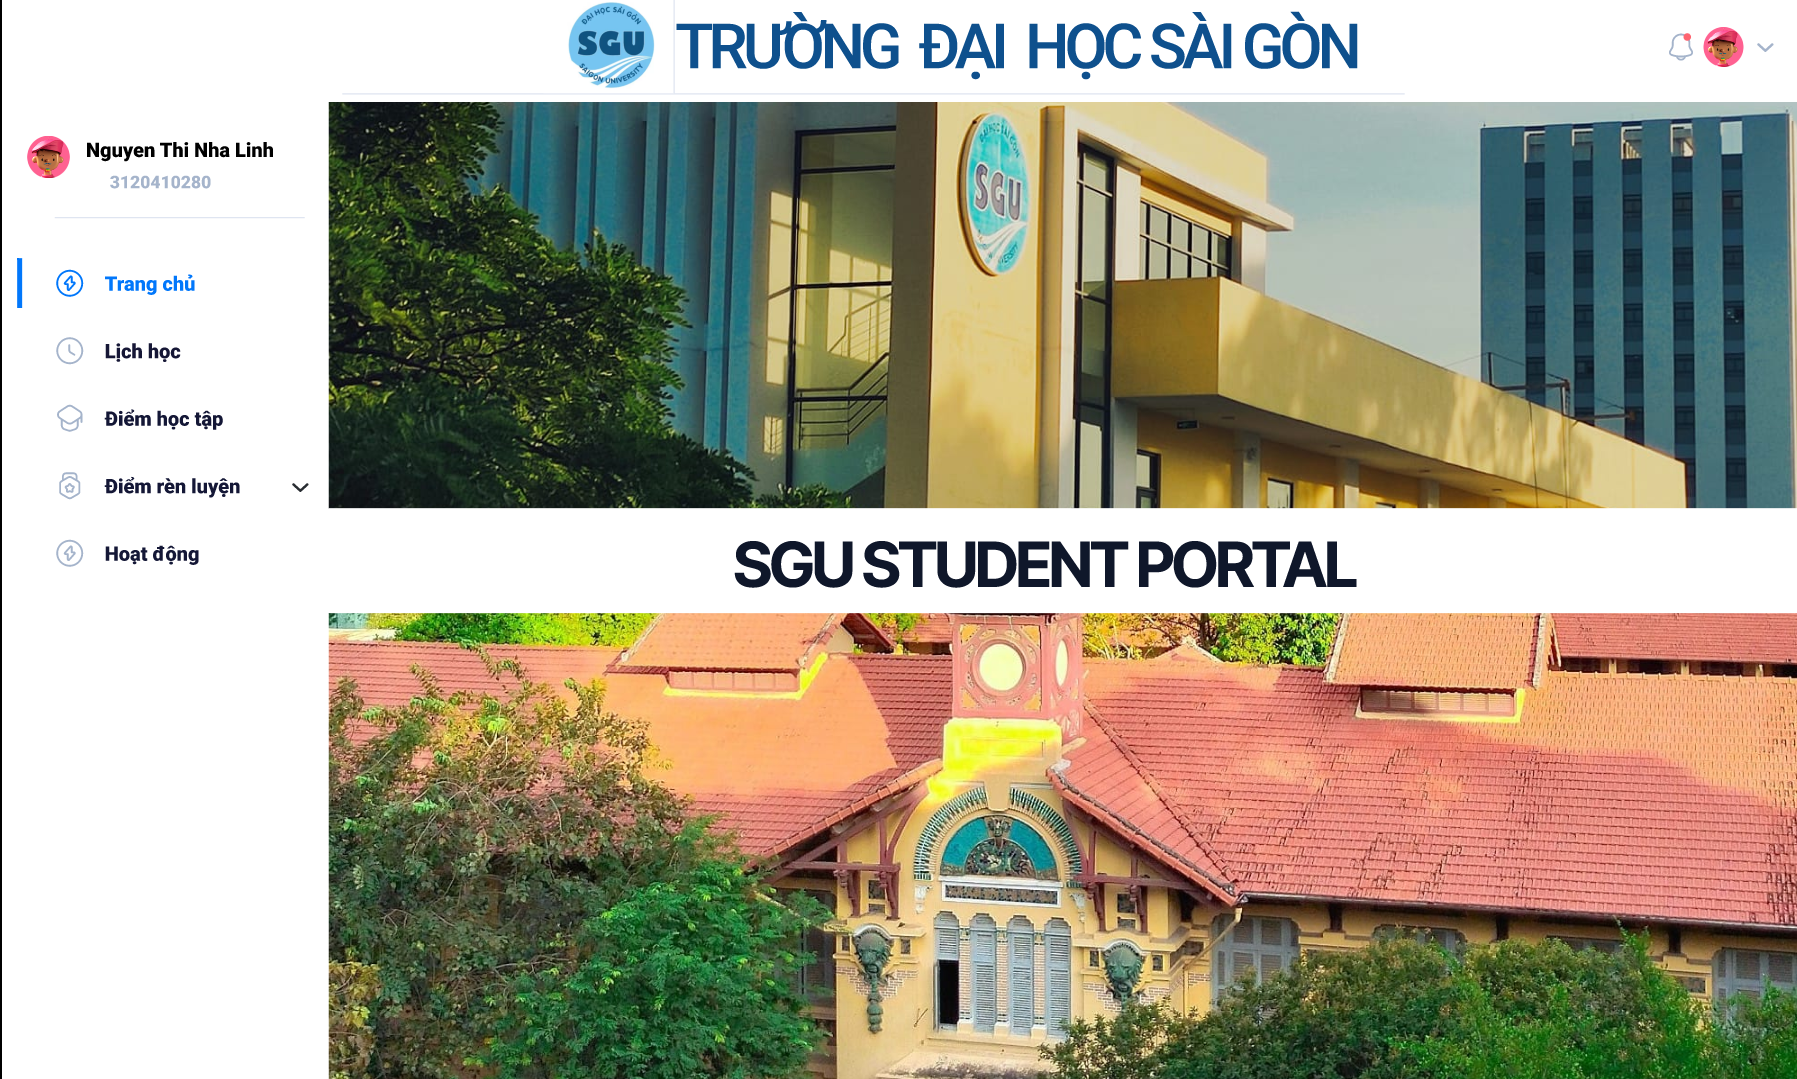
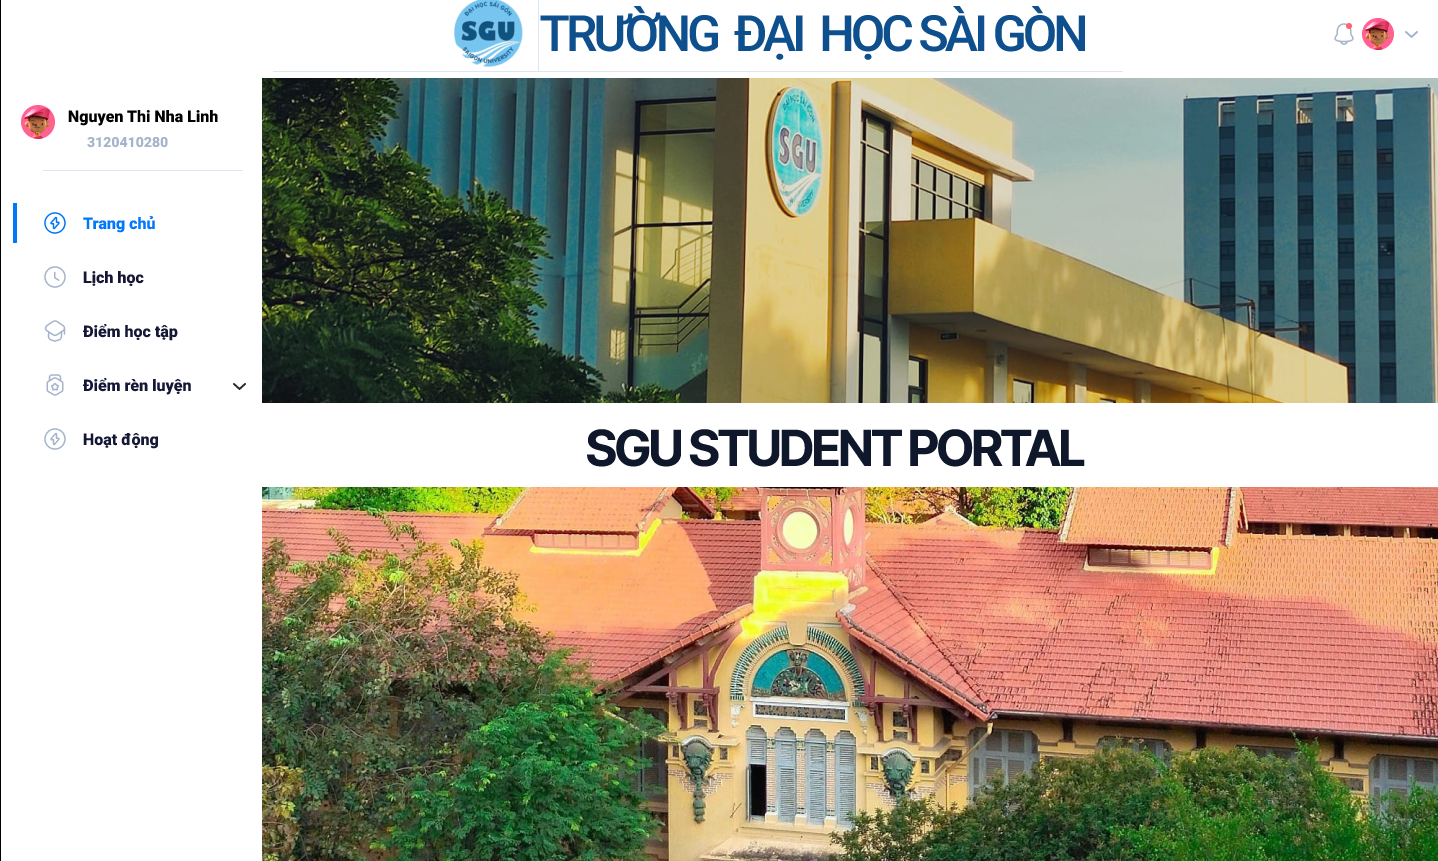
Update Image

diff --git a/app.py b/app.py
@@ -87,6 +87,10 @@ img_lh = Image.open("images/middle.jpg")
 img_ifg = Image.open("images/contact.jpg")
 #Assets for competitions
 img_CPNTD = Image.open("images/CPNTD.jpg")
+img_CPNTD2 = Image.open("images/CPNTD2.jpg")
+img_CPNTD3 = Image.open("images/CPNTD3.jpg")
+img_CPNTD4 = Image.open("images/CPNTD4.jpg")
+img_CPNTD5 = Image.open("images/CPNTD5.jpg")
 img_TLSV = Image.open("images/TLSV.png")
 # Assets for education
 
@@ -102,8 +106,25 @@ img_identify = Image.open("images/identify.jpeg")
 img_data = Image.open("images/data.jpeg")
 img_logistics = Image.open("images/logistics.png") 
 img_SGUsp = Image.open("images/SGUsp.png")
+img_SGUsp2 = Image.open("images/SGUsp2.png")
+img_SGUsp3 = Image.open("images/SGUsp3.png")
+img_SGUsp4 = Image.open("images/SGUsp4.png")
+img_SGUsp5 = Image.open("images/SGUsp5.png")
 img_POSodoo = Image.open("images/POSodoo.jpg")
 img_figma = Image.open("images/figma.png")
+
+img_swm = Image.open("images/swm.png")
+img_swm1 = Image.open("images/swm1.png")
+img_swm2 = Image.open("images/swm2.jpg")
+
+img_MyBao = Image.open("images/Project_MyBao.png")
+img_MyBao2 = Image.open("images/Project_MyBao2.png")
+img_MyBao3 = Image.open("images/Project_MyBao3.png")
+img_MyBao4 = Image.open("images/Project_MyBao4.png")
+img_MyBao5 = Image.open("images/Project_MyBao5.png")
+img_MyBao6 = Image.open("images/Project_MyBao6.png")
+
+
 
 
 # Assets for volunteering
@@ -505,9 +526,9 @@ elif choose == "Technical Skills":
         st.markdown("""
         **Tools & Platforms**
         - Jira
-        - Slack
-        - Version Control
-        - Project Tracking
+        - Confluence
+        - Postman
+        - Insomnia
         """)
 
 
@@ -572,100 +593,219 @@ elif choose == "Education":
 
 elif choose == "Projects":
     # Create section for Projects
-    #st.write("---")
     st.header("Projects")
+    
+    # Initialize session state for project visibility if not exists
+    if 'project_visibility' not in st.session_state:
+        st.session_state.project_visibility = {
+            'wms': True,
+            'identify': True,
+            'data': True,
+            'logistics': True,
+            'sgu': True,
+            'pos': True,
+            'mybao': True
+        }
+        
     with st.container():
-        text_column, image_column = st.columns((3,1))
+        text_column, image_column = st.columns((2,2))
         with text_column:
-            st.subheader("Identify Positive and Negative Comments on Youtube")
-            st.write("Self-initiated project using Machine Learning")
-            st.markdown("""
-            - Developed and integrating a machine learning-based data collection system within 2 months, gathering
-            and processing 100,000 data entries for a Steam-based learning model.
-            - Built webscraper using BeautifulSoup4 to scrape content from [Steam](https://store.steampowered.com/)
-            - Aided content creators in identifying channel issues, resulting in a 70% reduction in time spent pinpointing
-            problems.
-            """)
+            col1, col2 = st.columns([4,1])
+            with col1:
+                st.subheader("Modem Diagnostic System")
+                st.write("*December 2024 to Present*")
+            with col2:
+                if st.button("Hide", key="mybao_toggle"):
+                    st.session_state.project_visibility['mybao'] = not st.session_state.project_visibility['mybao']
             
-            # st.write("[Github Repo](https://github.com/harrychangjr/sales-prediction)")
+            if st.session_state.project_visibility['mybao']:
+                
+                st.markdown("""
+                - Automatically diagnose and fix device/network issues.
+                - Configure device settings remotely
+                - View real-time and historical device parameters
+                - Perform remote support actions: (reset PPPoE password, kill active session, reset MAC address, upgrade firmware).
+                """)
+                st.image(img_MyBao2)
+                st.image(img_MyBao3)
+            
         with image_column:
-            st.image(img_identify)
+            if st.session_state.project_visibility['mybao']:
+                st.image(img_MyBao)
+                st.image(img_MyBao5)
+                st.image(img_MyBao4)
+                  
+    
+    with st.container():
+        text_column, image_column = st.columns((2,2))
+        with text_column:
+            col1, col2 = st.columns([4,1])
+            with col1:
+                st.subheader("Warehouse Management System")
+                st.write("*June 2024 to December 2024*")
+            with col2:
+                if st.button("Hide", key="wms_toggle"):
+                    st.session_state.project_visibility['wms'] = not st.session_state.project_visibility['wms']
+            
+            if st.session_state.project_visibility['wms']:
+                
+                st.markdown("""
+                - Digitize warehouse operations to reduce manual work and paperwork.
+                - Enable real-time warehouse management for faster and more accurate decision-making.
+                - Optimize warehouse performance by reducing order processing time and improving labor productivity.
+                - Enhance inventory accuracy, minimizing mistakes in receiving and shipping.
+                """)
+                st.image(img_swm1)
+        with image_column:
+            if st.session_state.project_visibility['wms']:
+                st.image(img_swm)
+                st.image(img_swm2)
+    
     with st.container():
         text_column, image_column = st.columns((3,1))
         with text_column:
-            st.subheader("Data Analytics for Eccomerce Company")
-            st.write("*Self-initiated project base on simulation Eccomerce of Microsoft*")
-            st.markdown("""
-            - Developed and trained machine learning models to forecast Contoso's profit margins, achieving accuracy
-            levels exceeding 90%.
-            - Conducted a thorough analysis of Contoso's financial issues, successfully identifying the root causes of
-            the company's economic situation.
-            - Efficiently processed over 600,000 data entries across 17 columns without data reduction, successfully
-            deploying the enhanced system.
-            """)
-            # st.write("[Github Repo](https://github.com/harrychangjr/sales-prediction)")
-            mention(label="Streamlit App", icon="streamlit", url="https://dataanalysiscontoso.streamlit.app/",)
-            mention(label="Github Repo", icon="github", url="https://github.com/NguyenThaiVietLong/DataAnalysis_Contoso",)
+            col1, col2 = st.columns([4,1])
+            with col1:
+                st.subheader("Identify Positive and Negative Comments on Youtube")
+                st.write("*January 2024 to May 2024*")
+            with col2:
+                if st.button("Hide", key="identify_toggle"):
+                    st.session_state.project_visibility['identify'] = not st.session_state.project_visibility['identify']
+            
+            if st.session_state.project_visibility['identify']:
+                
+                st.markdown("""
+                - Developed and integrating a machine learning-based data collection system within 2 months, gathering
+                and processing 100,000 data entries for a Steam-based learning model.
+                - Built webscraper using BeautifulSoup4 to scrape content from [Steam](https://store.steampowered.com/)
+                - Aided content creators in identifying channel issues, resulting in a 70% reduction in time spent pinpointing
+                problems.
+                """)
         with image_column:
-            st.image(img_data)
+            if st.session_state.project_visibility['identify']:
+                st.image(img_identify)
+
     with st.container():
         text_column, image_column = st.columns((3,1))
         with text_column:
-            st.subheader("Logistic(Economy Express Delivery)")
-            st.write("*Self-initiated project based on delivery app*")
-            st.markdown("""
-            -  Enhanced UI/UX workflows and customer journey mapping, facilitating a comprehensive understanding
-            of the entire system.
-            - Improved workflow visualization and efficiency by creating and documenting BPMN processes.
-            - Developed and implemented a comprehensive Software Requirements Specification (SRS) document,
-            detailing both functional and non-functional requirements, user stories, display rules, and business guide-
-            lines.
-            """)
-            mention(label="Google Drive", icon="📁", url="https://drive.google.com/drive/folders/1-IbxCGRMZ3WJUNiYLS_tCzjQjzM3LWnl?usp=sharing")
-            # st.write("[Github Repo](https://github.com/harrychangjr/sales-prediction)")
+            col1, col2 = st.columns([4,1])
+            with col1:
+                st.subheader("Data Analytics for Eccomerce Company")
+                st.write("*September 2023 to January 2024*")
+            with col2:
+                if st.button("Hide", key="data_toggle"):
+                    st.session_state.project_visibility['data'] = not st.session_state.project_visibility['data']
+            
+            if st.session_state.project_visibility['data']:
+                
+                st.markdown("""
+                - Developed and trained machine learning models to forecast Contoso's profit margins, achieving accuracy
+                levels exceeding 90%.
+                - Conducted a thorough analysis of Contoso's financial issues, successfully identifying the root causes of
+                the company's economic situation.
+                - Efficiently processed over 600,000 data entries across 17 columns without data reduction, successfully
+                deploying the enhanced system.
+                """)
+                mention(label="Streamlit App", icon="streamlit", url="https://dataanalysiscontoso.streamlit.app/",)
+                mention(label="Github Repo", icon="github", url="https://github.com/NguyenThaiVietLong/DataAnalysis_Contoso",)
         with image_column:
-            st.image(img_logistics)
+            if st.session_state.project_visibility['data']:
+                st.image(img_data)
+
     with st.container():
         text_column, image_column = st.columns((3,1))
         with text_column:
-            st.subheader("SGU Student Portal")
-            st.write("*This project was created for a school-level competition, where it ranked in the top 5 finalists.*")
-            st.markdown("""
-            - Developed and launched a prototype application for Saigon University (SGU) students, enhancing their academic and extracurricular engagement by providing instant access to study schedules, academic points, training points, and university event registration.
-            - Implemented a Study Schedule feature, enabling over 10,000 students to efficiently manage their academic calendars and participate in university events.
-            - Created a Study Points module, offering personalized academic guidance to students.
-            - Integrated a Training Points tracking system, allowing students to monitor their extracurricular participation.
-            """)
-            #st.write("[Github Repo](https://github.com/harrychangjr/sp1541-nlp)")
-            mention(label="Figma App",icon ='📱', url="https://figmashort.link/G8akP4",)
+            col1, col2 = st.columns([4,1])
+            with col1:
+                st.subheader("Logistic(Economy Express Delivery)")
+                st.write("*April 2023 to October 2024*")
+            with col2:
+                if st.button("Hide", key="logistics_toggle"):
+                    st.session_state.project_visibility['logistics'] = not st.session_state.project_visibility['logistics']
+            
+            if st.session_state.project_visibility['logistics']:
+                
+                st.markdown("""
+                -  Enhanced UI/UX workflows and customer journey mapping, facilitating a comprehensive understanding
+                of the entire system.
+                - Improved workflow visualization and efficiency by creating and documenting BPMN processes.
+                - Developed and implemented a comprehensive Software Requirements Specification (SRS) document,
+                detailing both functional and non-functional requirements, user stories, display rules, and business guide-
+                lines.
+                """)
+                mention(label="Google Drive", icon="📁", url="https://drive.google.com/drive/folders/1-IbxCGRMZ3WJUNiYLS_tCzjQjzM3LWnl?usp=sharing")
         with image_column:
-            st.image(img_SGUsp)
+            if st.session_state.project_visibility['logistics']:
+                st.image(img_logistics)
+
+    with st.container():
+        text_column, image_column = st.columns((3,3))
+        with text_column:
+            col1, col2 = st.columns([4,1])
+            with col1:
+                st.subheader("SGU Student Portal")
+                st.write("*January 2023 to May 2023*")
+                
+            with col2:
+                if st.button("Hide", key="sgu_toggle"):
+                    st.session_state.project_visibility['sgu'] = not st.session_state.project_visibility['sgu']
+            
+            if st.session_state.project_visibility['sgu']:
+                
+                st.markdown("""
+                - Developed and launched a prototype application for Saigon University (SGU) students, enhancing their academic and extracurricular engagement by providing instant access to study schedules, academic points, training points, and university event registration.
+                - Implemented a Study Schedule feature, enabling over 10,000 students to efficiently manage their academic calendars and participate in university events.
+                - Created a Study Points module, offering personalized academic guidance to students.
+                - Integrated a Training Points tracking system, allowing students to monitor their extracurricular participation.
+                """)
+                mention(label="Figma App",icon ='📱', url="https://figmashort.link/G8akP4",)
+                st.image(img_SGUsp3)
+                st.image(img_SGUsp4)
+        with image_column:
+            if st.session_state.project_visibility['sgu']:
+                st.image(img_SGUsp)
+                st.image(img_SGUsp2)
+                st.image(img_SGUsp5)
+
     with st.container():
         text_column, image_column = st.columns((3,1))
         with text_column:
-            st.subheader("POS System in Odoo")
-            st.write("*Self-initiated project based on Odoo platform*")
-            #st.write("Methods performed on [Kaggle dataset](https://www.kaggle.com/rush4ratio/video-game-sales-with-ratings):")
-            st.markdown("""
-            - Analyzed and documented user functionalities for the ODOO POS module through Use case, enabling customization of POS features for greater flexibility and satisfaction.
-            - Used Activity and Sequence Diagrams to improve system understanding by 60% and integration time for new features by 50% in the ODOO POS system.
-            - Crafted Class Diagrams to illustrate data processing flows and relationships, and developed Entity-Relationship Diagrams (ERDs) to meticulously map out data structures.
-            """)
-            #st.write("[Github Repo](https://github.com/harrychangjr/st4248-termpaper) | [Term Paper](https://github.com/harrychangjr/st4248-termpaper/blob/main/ST4248%20Term%20Paper%20(A0201825N)%20v5.pdf)")
+            col1, col2 = st.columns([4,1])
+            with col1:
+                st.subheader("POS System in Odoo")  
+                st.write("*September 2022 to January 2023*")
+                with col2:
+                    if st.button("Hide", key="pos_toggle"):
+                        st.session_state.project_visibility['pos'] = not st.session_state.project_visibility['pos']
+            
+            if st.session_state.project_visibility['pos']:
+                
+                st.markdown("""
+                - Analyzed and documented user functionalities for the ODOO POS module through Use case, enabling customization of POS features for greater flexibility and satisfaction.
+                - Used Activity and Sequence Diagrams to improve system understanding by 60% and integration time for new features by 50% in the ODOO POS system.
+                - Crafted Class Diagrams to illustrate data processing flows and relationships, and developed Entity-Relationship Diagrams (ERDs) to meticulously map out data structures.
+                """)
         with image_column:
-            st.image(img_POSodoo)
+            if st.session_state.project_visibility['pos']:
+                st.image(img_POSodoo)
 elif choose == "Competitions":
     # Create section for Competitions
     #st.write("---")
     st.header("Competitions")
     with st.container():
-        image_column, text_column = st.columns((1,3))
-        with image_column:
-            st.image(img_CPNTD)
-            #st.empty()
+        text_column,image_column,image_column2  = st.columns((2,3,3))
         with text_column:
             st.subheader("Strategies to Impress Employers - Hosted by [The Student Union of Saigon University](https://www.facebook.com/tuoitredhsaigon)")
             st.write("Achieved a top 5 position in the competition, surpassing over 100 students by excelling in product presentations, personal presentations, CV creation, and answering interview questions.")
+            
+        with image_column:
+            st.image(img_CPNTD4)
+            st.image(img_CPNTD3)
+            #st.empty()
+        with image_column2:
+            st.image(img_CPNTD2)
+            st.image(img_CPNTD5)
+        
     with st.container():
         image_column, text_column = st.columns((1,3))
         with image_column:
